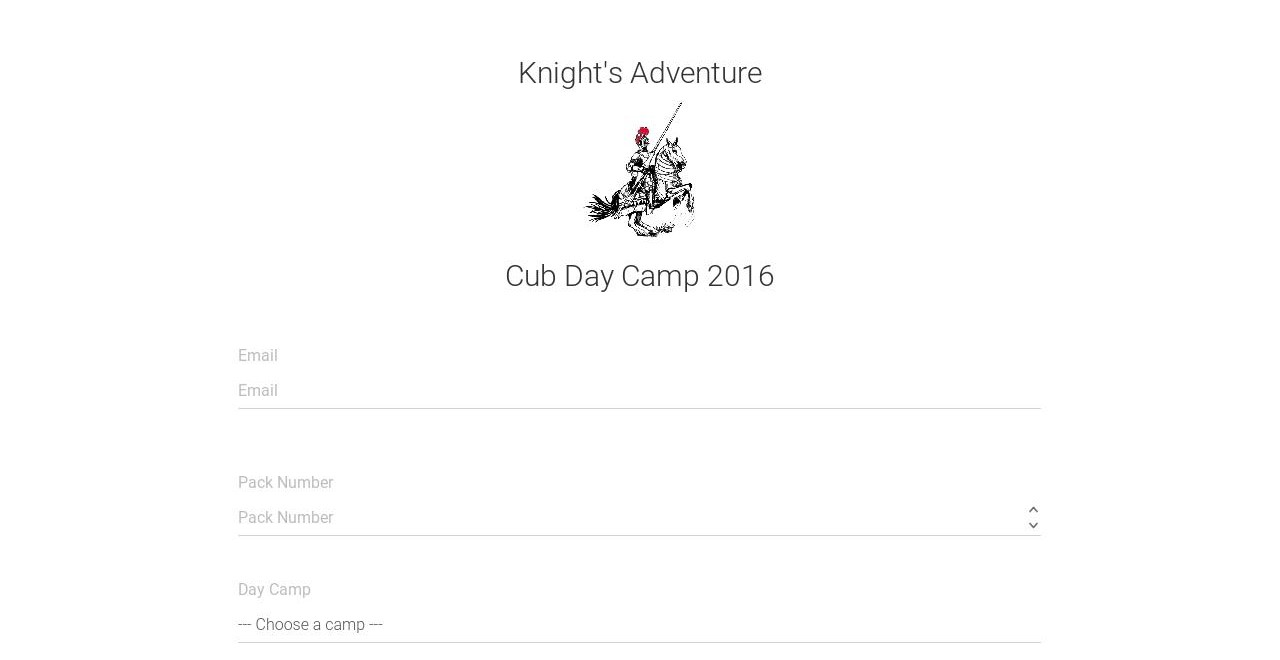
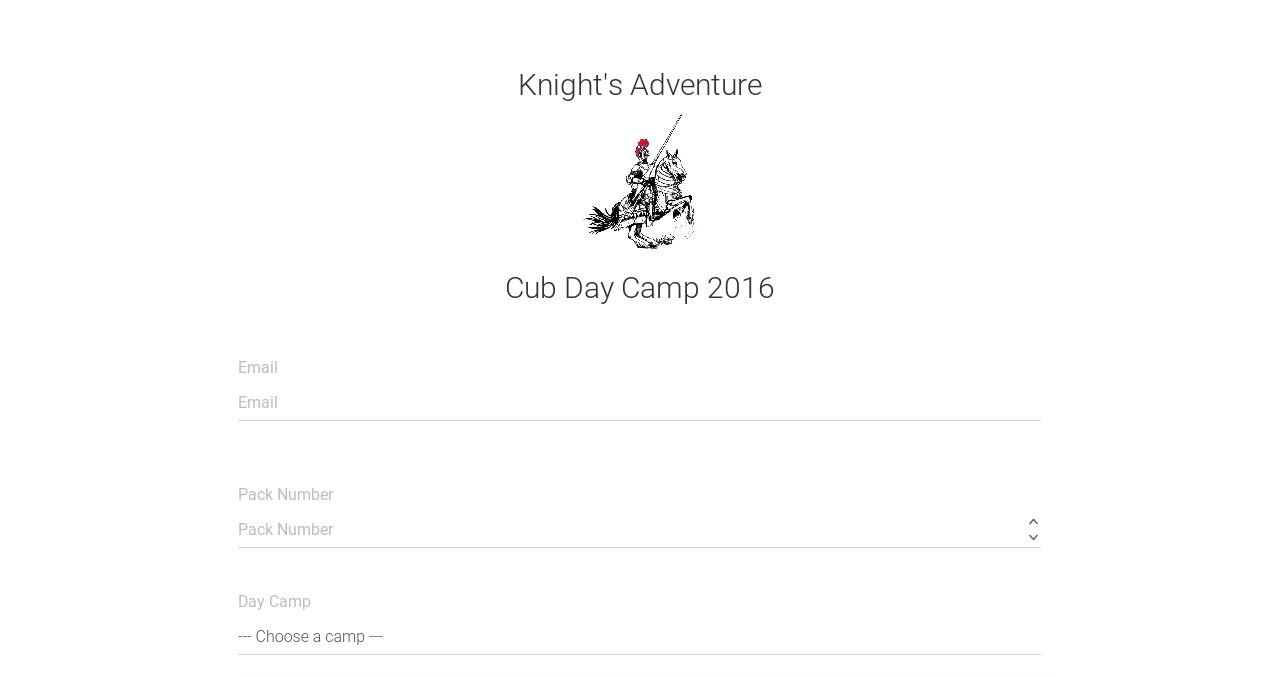
removes image height/width as breaks on mobile, scout reg and sicknasty classy adjusted to look closer to others

diff --git a/css/grayscale.css b/css/grayscale.css
@@ -381,11 +381,7 @@ body {
     color: yellowgreen;
 }
 
-#carImage{
-    height: 400px;
-    width: 750px;
-}
-
 #arrow{
     color: yellowgreen;
 }
+
